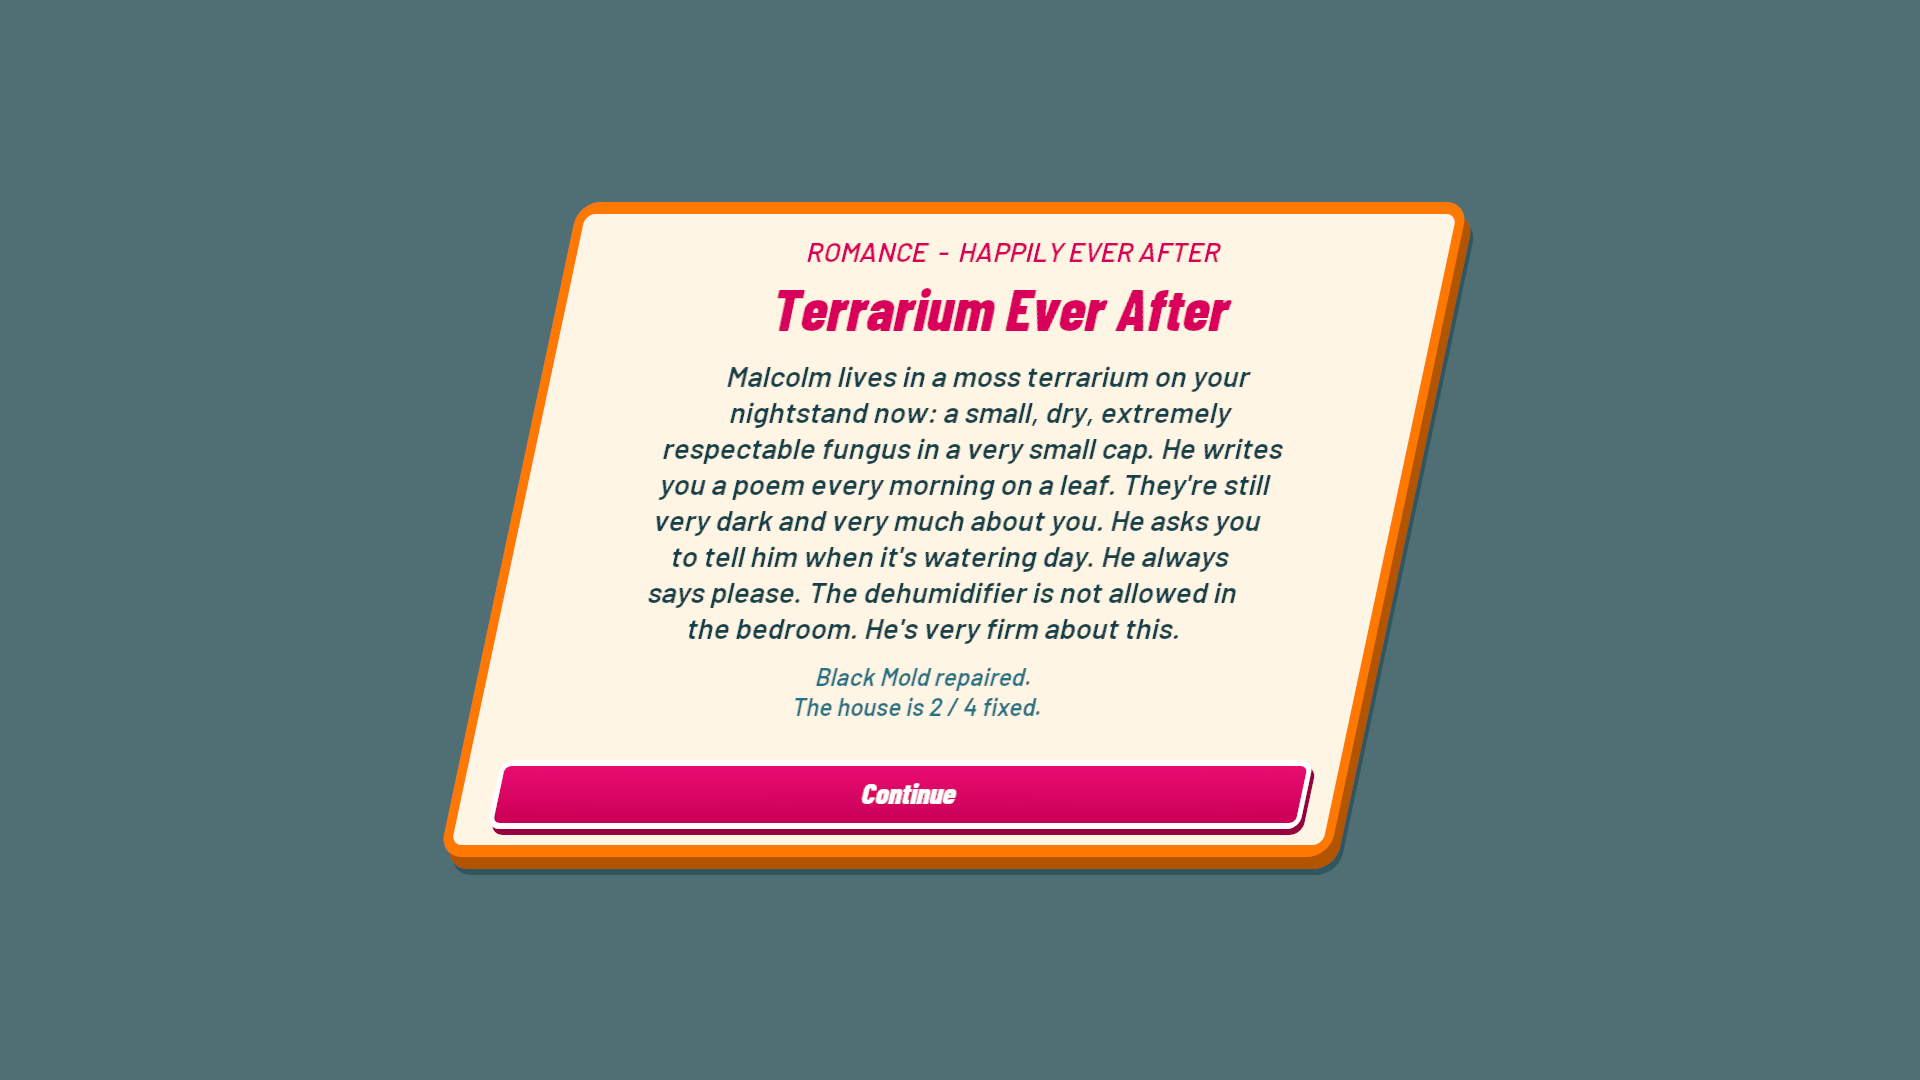
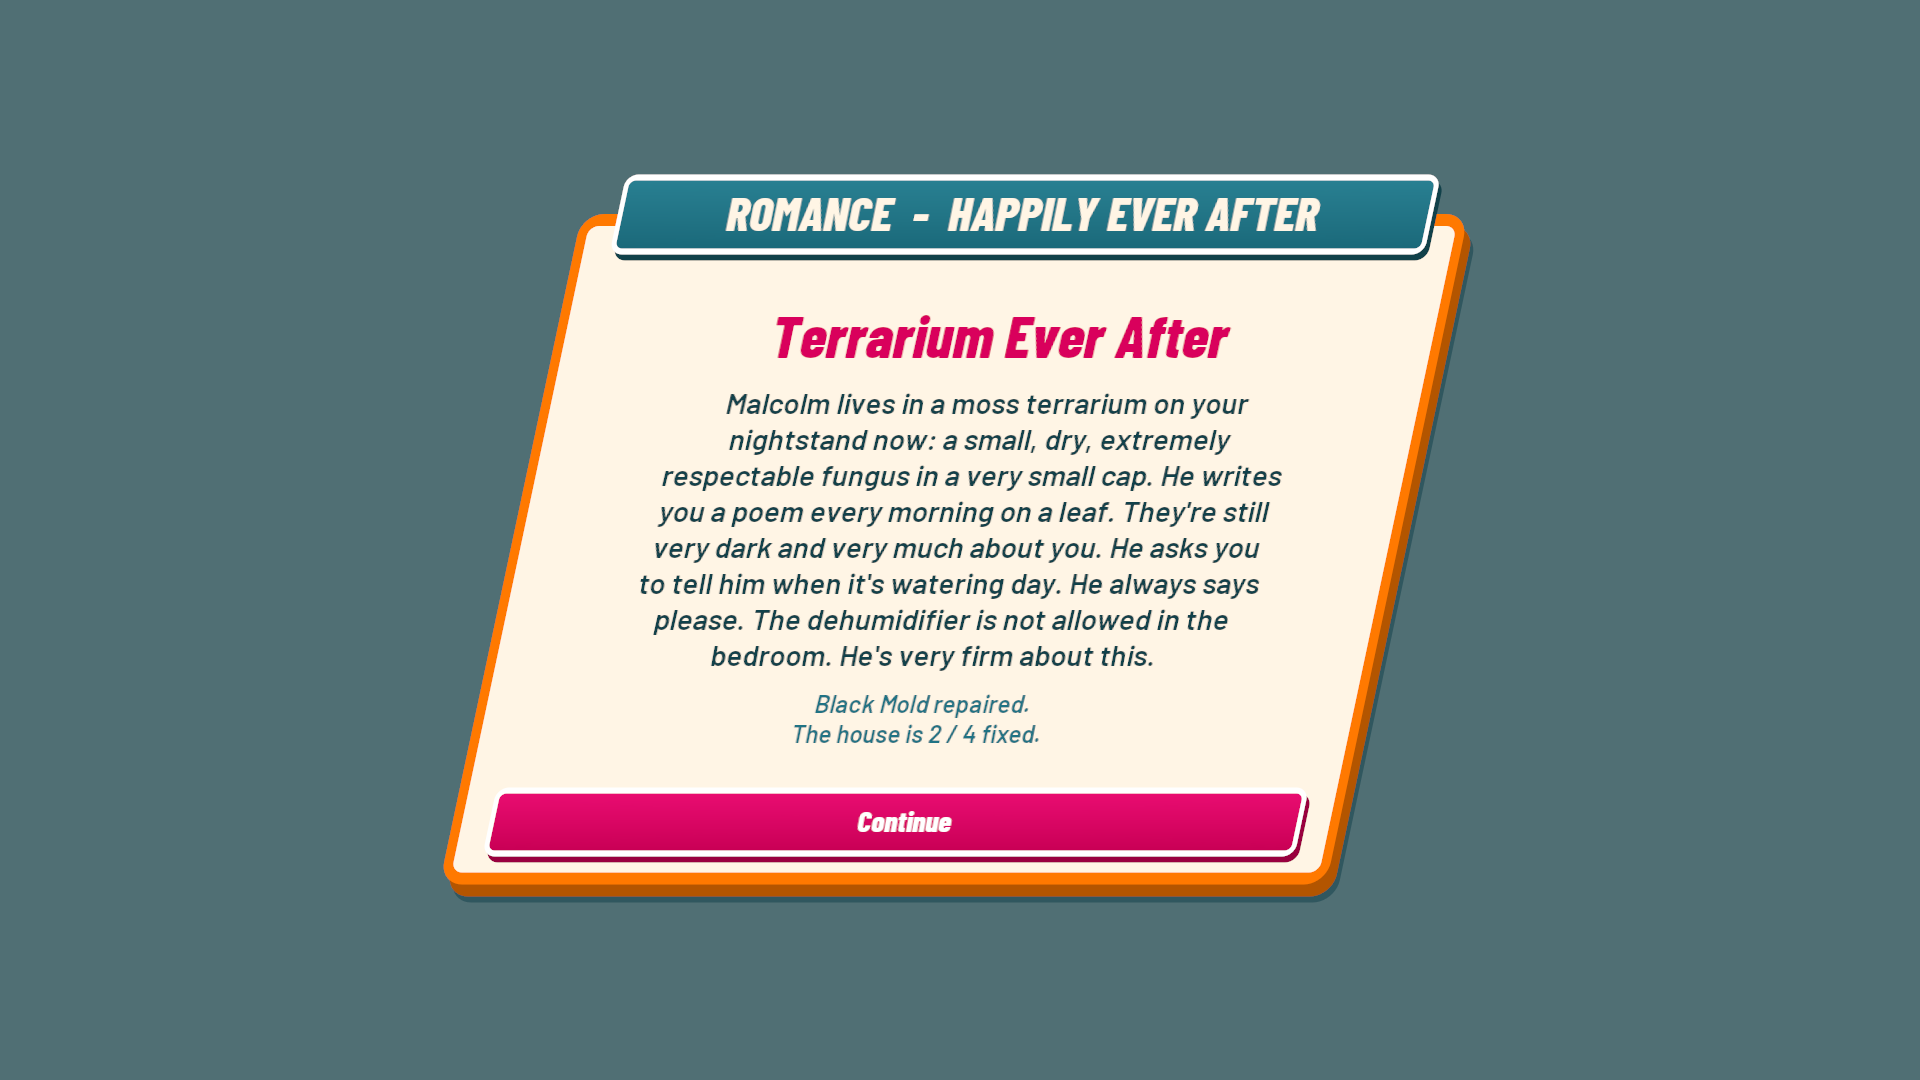
Ending card: category on the title plate
The ending category (Romance - Happily ever after, ...) moves from a small
line inside the card to the teal title plate. Plate titles too long for
the plate now scale down to fit; a second capture covers the longest
label (It's not me, it's your foundation).

diff --git a/Source/ICanFixHim/UI/FixHimCards.cpp b/Source/ICanFixHim/UI/FixHimCards.cpp
@@ -241,15 +241,12 @@ void UFixHimIntroCardWidget::NativeTick(const FGeometry& MyGeometry, float InDel
 
 void UFixHimEndingCardWidget::BuildUI()
 {
-	UVerticalBox* Col = MakeCardScreen(TEXT(""), 1040.f); // wide enough that the longest ending (~360 characters) fits without scrolling
+	// The ending category is the card's title plate (set in Setup). Wide enough that the longest ending
+	// (~360 characters) fits without scrolling.
+	UVerticalBox* Col = MakeCardScreen(TEXT("Ending"), 1040.f);
 	OpenSfx = NAME_None; // the ending jingle covers it
 	OutsideClickMinAge = 0.8f;
 	Col->ClearChildren();
-
-	Kind = MakeText(WidgetTree, TEXT("ENDING"), 20, Pink, TEXT("Bold"));
-	Kind->SetJustification(ETextJustify::Center);
-	Kind->SetAutoWrapText(true);
-	Col->AddChildToVerticalBox(Kind);
 
 	Title = MakeText(WidgetTree, TEXT("Title"), 44, HotPink, TEXT("Display"));
 	Title->SetJustification(ETextJustify::Center);
@@ -275,16 +272,14 @@ void UFixHimEndingCardWidget::BuildUI()
 
 void UFixHimEndingCardWidget::Setup(const FHunkDefinition& Def, const FString& EndingId, int32 FixedCount, int32 TotalCount)
 {
-	FString KindText;
-	FLinearColor KindColor = Pink;
-	if (EndingId == TEXT("romance_success")) { KindText = TEXT("ROMANCE  -  HAPPILY EVER AFTER"); KindColor = HotPink; }
-	else if (EndingId == TEXT("romance_failure")) { KindText = TEXT("ROMANCE  -  IT'S NOT ME, IT'S YOUR FOUNDATION"); KindColor = Plum; }
-	else if (EndingId == TEXT("friend_success")) { KindText = TEXT("FRIENDSHIP  -  BESTIES"); KindColor = PlumSoft; }
-	else { KindText = TEXT("FRIENDSHIP  -  SWORN ENEMIES"); KindColor = Plum; }
+	const TCHAR* KindText = EndingId == TEXT("romance_success") ? TEXT("Romance  -  Happily ever after")
+	                      : EndingId == TEXT("romance_failure") ? TEXT("Romance  -  It's not me, it's your foundation")
+	                      : EndingId == TEXT("friend_success")  ? TEXT("Friendship  -  Besties")
+	                                                             : TEXT("Friendship  -  Sworn enemies");
 
 	FixHim::Sfx(this, EndingId == TEXT("romance_success") ? "EndingRomance" : EndingId == TEXT("friend_success") ? "EndingFriend" : "EndingFail");
-	Kind->SetText(FText::FromString(KindText));
-	Kind->SetColorAndOpacity(FSlateColor(KindColor));
+	if (HeaderTitle)
+		HeaderTitle->SetText(FText::FromString(FString(KindText).ToUpper()));
 
 	const FHunkEnding* Ending = Def.Endings.Find(EndingId);
 	Title->SetText(FText::FromString(Ending ? Ending->Title : Def.Name));

diff --git a/Source/ICanFixHim/UI/FixHimUI.cpp b/Source/ICanFixHim/UI/FixHimUI.cpp
@@ -21,6 +21,7 @@
 #include "Engine/Texture2D.h"
 #include "Fonts/CompositeFont.h"
 #include "UObject/StrongObjectPtr.h"
+#include "Components/ScaleBox.h"
 #include "Components/ScrollBox.h"
 #include "Components/EditableTextBox.h"
 #include "Components/ScrollBoxSlot.h"
@@ -499,11 +500,17 @@ UWidget *UFixHimWidget::MakeHeaderedSurface(UBorder *Surface, const FString &Tit
 		return Surface;
 	auto *Heading = MakeText(WidgetTree, Title.ToUpper(), FixHimDesign::Heading, Cream, TEXT("Display"));
 	Heading->SetJustification(ETextJustify::Center);
+	HeaderTitle = Heading;
 	auto *Header = WidgetTree->ConstructWidget<UFixHimSurface>();
 	Header->SetBrush(Rounded(FixHimDesign::Teal, 12));
 	Header->SetPadding(FMargin(32, 10, 40, 10 + FixHimDesign::Extrusion));
 	Heading->SetRenderTranslation(FVector2D(0, Heading->GetFont().Size * FixHimDesign::CapCentre));
-	Header->SetContent(Heading);
+	// Long titles (the ending categories) shrink to fit the plate rather than spill past it; short ones are untouched.
+	auto *Fit = WidgetTree->ConstructWidget<UScaleBox>();
+	Fit->SetStretch(EStretch::ScaleToFit);
+	Fit->SetStretchDirection(EStretchDirection::DownOnly);
+	Fit->SetContent(Heading);
+	Header->SetContent(Fit);
 	return MakeHeaderedSurface(Surface, Header, Padding);
 }
 

diff --git a/Source/ICanFixHim/Tests/FixHimDesignSystemTest.cpp b/Source/ICanFixHim/Tests/FixHimDesignSystemTest.cpp
@@ -338,6 +338,12 @@ bool FFixHimDesignSystemTest::RunTest(const FString &Parameters)
 	EndingDef.Endings.Add(TEXT("romance_success"), EndingData);
 	Ending->Setup(EndingDef, TEXT("romance_success"), 2, 4);
 	Render(Ending, TEXT("14-ending-card"), {1920, 1080}, {1920, 1080});
+	// The longest category label on the title plate.
+	auto *Failure = Make.template operator()<UFixHimEndingCardWidget>();
+	Failure->TakeWidget();
+	EndingDef.Endings.Add(TEXT("romance_failure"), EndingData);
+	Failure->Setup(EndingDef, TEXT("romance_failure"), 2, 4);
+	Render(Failure, TEXT("14-ending-card-long-label"), {1920, 1080}, {1920, 1080});
 	auto *Transition = Make.template operator()<UFixHimTransitionWidget>();
 	Transition->TakeWidget();
 	Transition->Play(TEXT("WEEK TWO"), TEXT("A fresh coat. A fresh start."), true, true, [] {}, [] {});

diff --git a/Source/ICanFixHim/UI/FixHimUI.h b/Source/ICanFixHim/UI/FixHimUI.h
@@ -223,6 +223,8 @@ class ICANFIXHIM_API UFixHimWidget : public UUserWidget
 
 	/** The cream surface built by MakeCardScreen. */
 	UPROPERTY() TObjectPtr<UBorder> CardSurface;
+	/** Text on the most recent MakeHeaderedSurface title plate, for screens whose title is set later (ending). */
+	UPROPERTY() TObjectPtr<UTextBlock> HeaderTitle;
 
 	/**
 	 * Wraps a slanted surface so a teal title plate straddles its top edge: the plate's face is centred vertically

diff --git a/Source/ICanFixHim/UI/FixHimCards.h b/Source/ICanFixHim/UI/FixHimCards.h
@@ -74,7 +74,6 @@ protected:
 	virtual bool HandleClickOutside() override;
 
 private:
-	UPROPERTY() TObjectPtr<UTextBlock> Kind;
 	UPROPERTY() TObjectPtr<UTextBlock> Title;
 	UPROPERTY() TObjectPtr<UTextBlock> Body;
 	UPROPERTY() TObjectPtr<UTextBlock> Progress;

diff --git a/docs/04 Tech/UI Component Library.md b/docs/04 Tech/UI Component Library.md
@@ -27,7 +27,7 @@ The contour is generated at the current allocated size with tessellated rounded 
 
 `UFixHimStack` is a vertical layout whose child anchors follow the 12° grid. It reserves the required horizontal space, adjusts row positions along the grid, and keeps each child's own geometry upright. It positions rows from their layout transform only, so a row's own render transform (text shear) is not applied twice. Use it for card content and menu columns. Keep spatial floor-plan cells rectangular so the room geometry remains truthful.
 
-Use the common popup `MakeCardScreen` rather than building a new modal frame per screen. It supplies the scrim, surface, header, bounded scrolling, opening motion and click-outside boundary. The card stays invisible until its layout stops changing (wrapped text settling, header re-fit), then pops in, so the reflow is never seen. Card content stacks cap their total lean at 120 units (`UFixHimStack::MaxLean`): an uncapped stack narrows every row by its height × tan 12°, so long text would narrow, wrap and grow in a loop. The ending card is 1040 wide so the longest authored ending (Malcolm's, ~360 characters) fits without scrolling; the review capture uses that text. Its left/right padding is balanced so that buttons' top layer (face and keyline, not the extrusion) centres on the card's face despite the 12° row stagger and the card's own extrusion, shadow and header reserve. A titleless shell supports ending cards. Actions stack vertically.
+Use the common popup `MakeCardScreen` rather than building a new modal frame per screen. It supplies the scrim, surface, header, bounded scrolling, opening motion and click-outside boundary. The card stays invisible until its layout stops changing (wrapped text settling, header re-fit), then pops in, so the reflow is never seen. Card content stacks cap their total lean at 120 units (`UFixHimStack::MaxLean`): an uncapped stack narrows every row by its height × tan 12°, so long text would narrow, wrap and grow in a loop. The ending card is 1040 wide so the longest authored ending (Malcolm's, ~360 characters) fits without scrolling; the review capture uses that text. Its left/right padding is balanced so that buttons' top layer (face and keyline, not the extrusion) centres on the card's face despite the 12° row stagger and the card's own extrusion, shadow and header reserve. Actions stack vertically.
 
 ## Buttons and inline topics
 
@@ -69,7 +69,7 @@ Dialogue retains its typewriter, clickable topic callbacks and authored choices.
 
 Keyline width comes from `FixHimDesign::ButtonBorder` (6) and `PopupBorder` (12); set `UFixHimSurface::BorderWidth` for large containers. The extrusion is derived from it (`DepthOffset`, `DepthReserveX/Y`: border down, half that across) and coloured `OrangeDepth`, `PinkDepth` or ink. To centre text on a surface, use `bottom = top + FixHimDesign::Extrusion` padding and fill (not centre) alignment for button content: Slate's centred slot alignment ignores asymmetric padding and would lift labels by half the extrusion. `FixHimDesign::CapCentre` (-0.05 em) centres capitals rather than the line box.
 
-`UFixHimWidget::MakeHeaderedSurface` wraps any slanted surface with a teal title plate straddling its top edge. `MakeCardScreen` and the floor plan use it; the plate position is re-fitted each tick from measured sizes, so text scaling and content changes stay aligned.
+`UFixHimWidget::MakeHeaderedSurface` wraps any slanted surface with a teal title plate straddling its top edge. A title that is too long for the plate scales down to fit (short titles are never scaled up), and `HeaderTitle` exposes the plate's text for screens that set it later. The ending card's plate shows the ending category, for example "ROMANCE – HAPPILY EVER AFTER". `MakeCardScreen` and the floor plan use it; the plate position is re-fitted each tick from measured sizes, so text scaling and content changes stay aligned.
 
 The selected v4 logo is imported once for the title screen. Its raster edge speckling and a final editable brand master still need a dedicated finishing pass; it has not been silently replaced by a different logo. Construction stripes and routine ray flourishes remain excluded.
 
